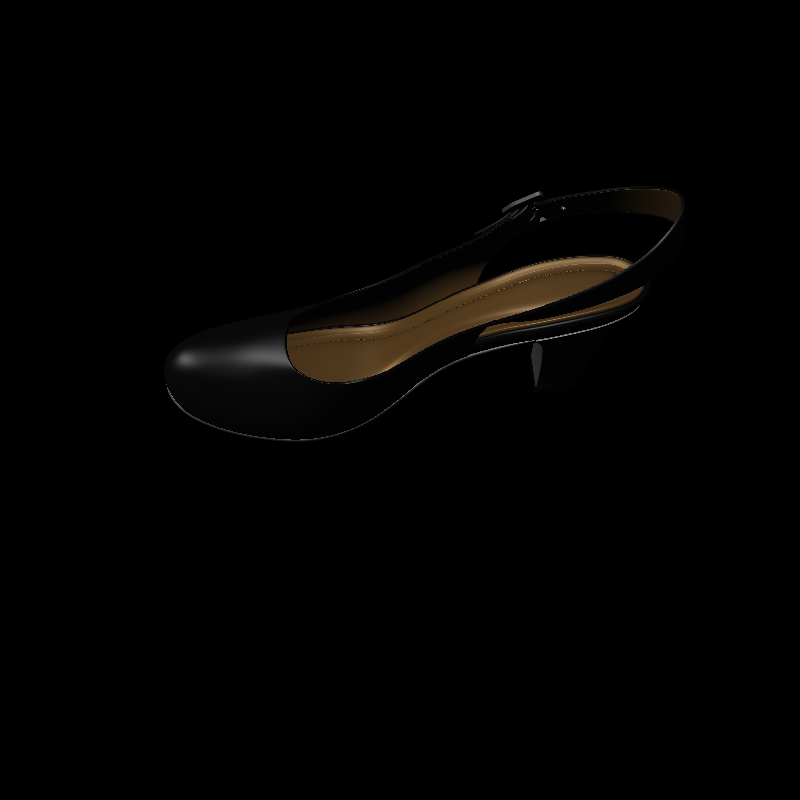
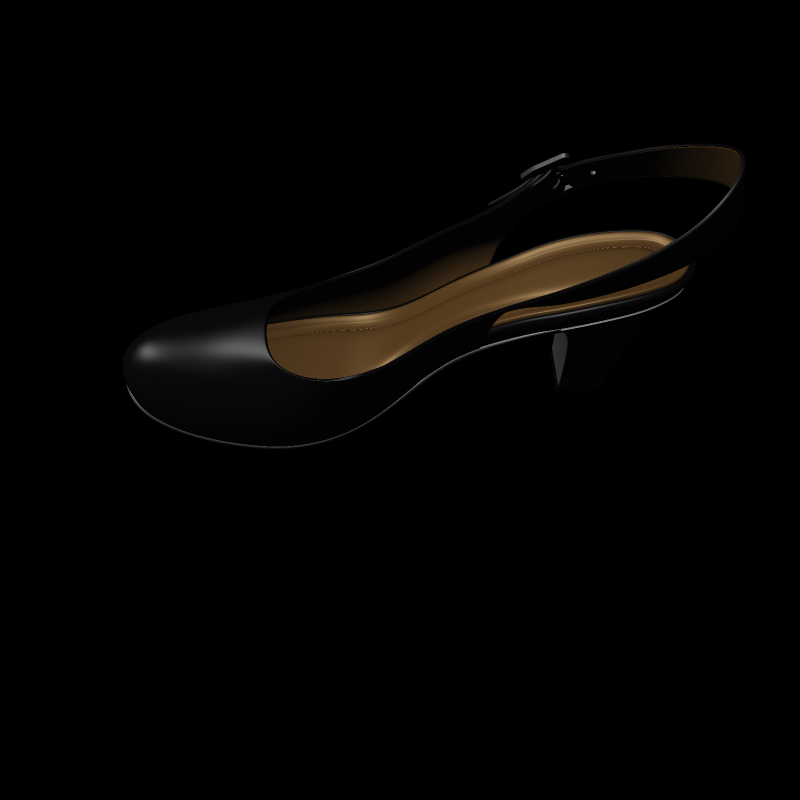
apply ssaa

Changed region(s): [[0.1562, 0.1562, 0.9375, 0.5], [0.625, 0.1875, 0.7188, 0.2812], [0.25, 0.5312, 0.4375, 0.5625]]

diff --git a/rasterizer/Scene.hpp b/rasterizer/Scene.hpp
@@ -14,7 +14,14 @@
 #include "rasterizer/Shader.hpp"
 #include "rasterizer/Texture.hpp"
 #include "rasterizer/Triangle.hpp"
+
 namespace Rasterizer {
+
+static constexpr int SSAA_SAMPLE_RATIO = 2;
+static constexpr int SSAA_SAMPLE_RATIO_SQR =
+    (SSAA_SAMPLE_RATIO * SSAA_SAMPLE_RATIO);
+static constexpr float SSAA_SAMPLE_STEP = (1.f / float(SSAA_SAMPLE_RATIO));
+static constexpr float SSAA_SAMPLE_OFFSET = (0.5f / float(SSAA_SAMPLE_RATIO));
 class Scene {
    private:
     // remove triangles unvisible to camera
@@ -31,7 +38,9 @@ class Scene {
     int width;
     int height;
     std::vector<std::vector<RGBColor>> pixels;
-    std::vector<std::vector<float>> zbuffer;
+    std::vector<std::vector<std::array<float, SSAA_SAMPLE_RATIO_SQR>>> zbuffer;
+    std::vector<std::vector<std::array<RGBColor, SSAA_SAMPLE_RATIO_SQR>>>
+        colorbuffer;
     std::vector<Model*> models;
     std::vector<Light> lights;
     Shader fragment_shader;
@@ -41,13 +50,19 @@ class Scene {
     Scene(int width, int height, Shader fragment_shader = normalFragmentShader)
         : width{width}, height{height}, fragment_shader{fragment_shader} {
         pixels.resize(height);
+        colorbuffer.resize(height);
         zbuffer.resize(height);
         for (int i = 0; i < height; i++) {
             pixels[i].resize(width);
             zbuffer[i].resize(width);
+            colorbuffer[i].resize(width);
             std::fill(pixels[i].begin(), pixels[i].end(), RGBColor(0, 0, 0));
-            std::fill(zbuffer[i].begin(), zbuffer[i].end(),
-                      std::numeric_limits<float>::infinity());
+            for (int j = 0; j < width; j++) {
+                std::fill(zbuffer[i][j].begin(), zbuffer[i][j].end(),
+                          std::numeric_limits<float>::infinity());
+                std::fill(colorbuffer[i][j].begin(), colorbuffer[i][j].end(),
+                          RGBColor(0.0f));
+            }
         }
     }
     void render() {
@@ -111,34 +126,46 @@ class Scene {
         }
         for (int y = bounding_box[0].y; y < bounding_box[1].y; y++) {
             for (int x = bounding_box[0].x; x < bounding_box[1].x; x++) {
-                float xf = float(x) + 0.5, yf = float(y) + 0.5;
-                if (triangle.inside(Vec3(xf, yf, 0.0))) {
-                    auto [alpha, beta, gamma] =
-                        triangle.computeBarycentric2D(xf, yf);
-                    float z = triangle.interpolateZ(alpha, beta, gamma);
-                    if (z < zbuffer[y][x]) {
-                        Vec3 normal =
-                            triangle.interpolateNormal(alpha, beta, gamma)
-                                .normalized();
-                        Vec3 view_position = view_pos[0] * alpha +
-                                             view_pos[1] * beta +
-                                             view_pos[2] * gamma;
-                        FragmentShaderPayload payload;
-                        payload.normal = normal;
-                        payload.view_position = view_position;
-                        payload.screen_position = Vec3(xf, yf, 0.0f);
-                        payload.texture = tex;
-                        payload.texture_coord =
-                            triangle.interpolateTextureCoord(alpha, beta,
-                                                             gamma);
-                        payload.color =
-                            triangle.interpolateColor(alpha, beta, gamma);
-                        payload.eye_pos = cam.eye_pos;
-                        payload.lights = this->lights;
-                        payload.material = material;
-                        pixels[y][x] = fragment_shader(payload);
-                        zbuffer[y][x] = z;
+                int inside_cnt = 0;
+                RGBColor color(0);
+                for (int i = 0; i < SSAA_SAMPLE_RATIO_SQR; i++) {
+                    float xf = float(x) + SSAA_SAMPLE_OFFSET +
+                               SSAA_SAMPLE_STEP * float(i % SSAA_SAMPLE_RATIO),
+                          yf = float(y) + SSAA_SAMPLE_OFFSET +
+                               SSAA_SAMPLE_STEP * float(i / SSAA_SAMPLE_RATIO);
+                    if (triangle.inside(Vec3(xf, yf, 0.0))) {
+                        auto [alpha, beta, gamma] =
+                            triangle.computeBarycentric2D(xf, yf);
+                        float z = triangle.interpolateZ(alpha, beta, gamma);
+                        if (z < zbuffer[y][x][i]) {
+                            inside_cnt++;
+                            Vec3 normal =
+                                triangle.interpolateNormal(alpha, beta, gamma)
+                                    .normalized();
+                            Vec3 view_position = view_pos[0] * alpha +
+                                                 view_pos[1] * beta +
+                                                 view_pos[2] * gamma;
+                            FragmentShaderPayload payload;
+                            payload.normal = normal;
+                            payload.view_position = view_position;
+                            payload.screen_position = Vec3(xf, yf, 0.0f);
+                            payload.texture = tex;
+                            payload.texture_coord =
+                                triangle.interpolateTextureCoord(alpha, beta,
+                                                                 gamma);
+                            payload.color =
+                                triangle.interpolateColor(alpha, beta, gamma);
+                            payload.eye_pos = cam.eye_pos;
+                            payload.lights = this->lights;
+                            payload.material = material;
+                            colorbuffer[y][x][i] = fragment_shader(payload);
+                            zbuffer[y][x][i] = z;
+                        }
                     }
+                    color = color + colorbuffer[y][x][i];
+                }
+                if (inside_cnt != 0) {
+                    pixels[y][x] = color / SSAA_SAMPLE_RATIO_SQR;
                 }
             }
         }
@@ -189,8 +216,12 @@ class Scene {
     void clear() {
         for (int i = 0; i < height; i++) {
             std::fill(pixels[i].begin(), pixels[i].end(), RGBColor(0, 0, 0));
-            std::fill(zbuffer[i].begin(), zbuffer[i].end(),
-                      std::numeric_limits<float>::infinity());
+            for (int j = 0; j < width; j++) {
+                std::fill(zbuffer[i][j].begin(), zbuffer[i][j].end(),
+                          std::numeric_limits<float>::infinity());
+                std::fill(colorbuffer[i][j].begin(), colorbuffer[i][j].end(),
+                          RGBColor(0.0f));
+            }
         }
     }
 };

diff --git a/utils/GitHelper.hpp b/utils/GitHelper.hpp
@@ -3,6 +3,6 @@
 #include <string>
 
 const std::string GIT_BRANCH = "master";
-const std::string GIT_HASH = "e2c29ce";
+const std::string GIT_HASH = "b6c9384";
 
 #endif /* GITHELPER_HPP */

diff --git a/README.md b/README.md
@@ -17,7 +17,9 @@ This is my own rasterizer implementation. Developed in C++17.
 - [x] bling-phong light
 - [x] mesh support(broken, no separate texture and material)
 - [x] mtl support
-- [ ] Antialias
+- [x] Antialias
+    - [x] SSAA
+    - [ ] MSAA
 - [x] realtime render window
     - [x] MacOS
     - [ ] Linux(Ubuntu?)
